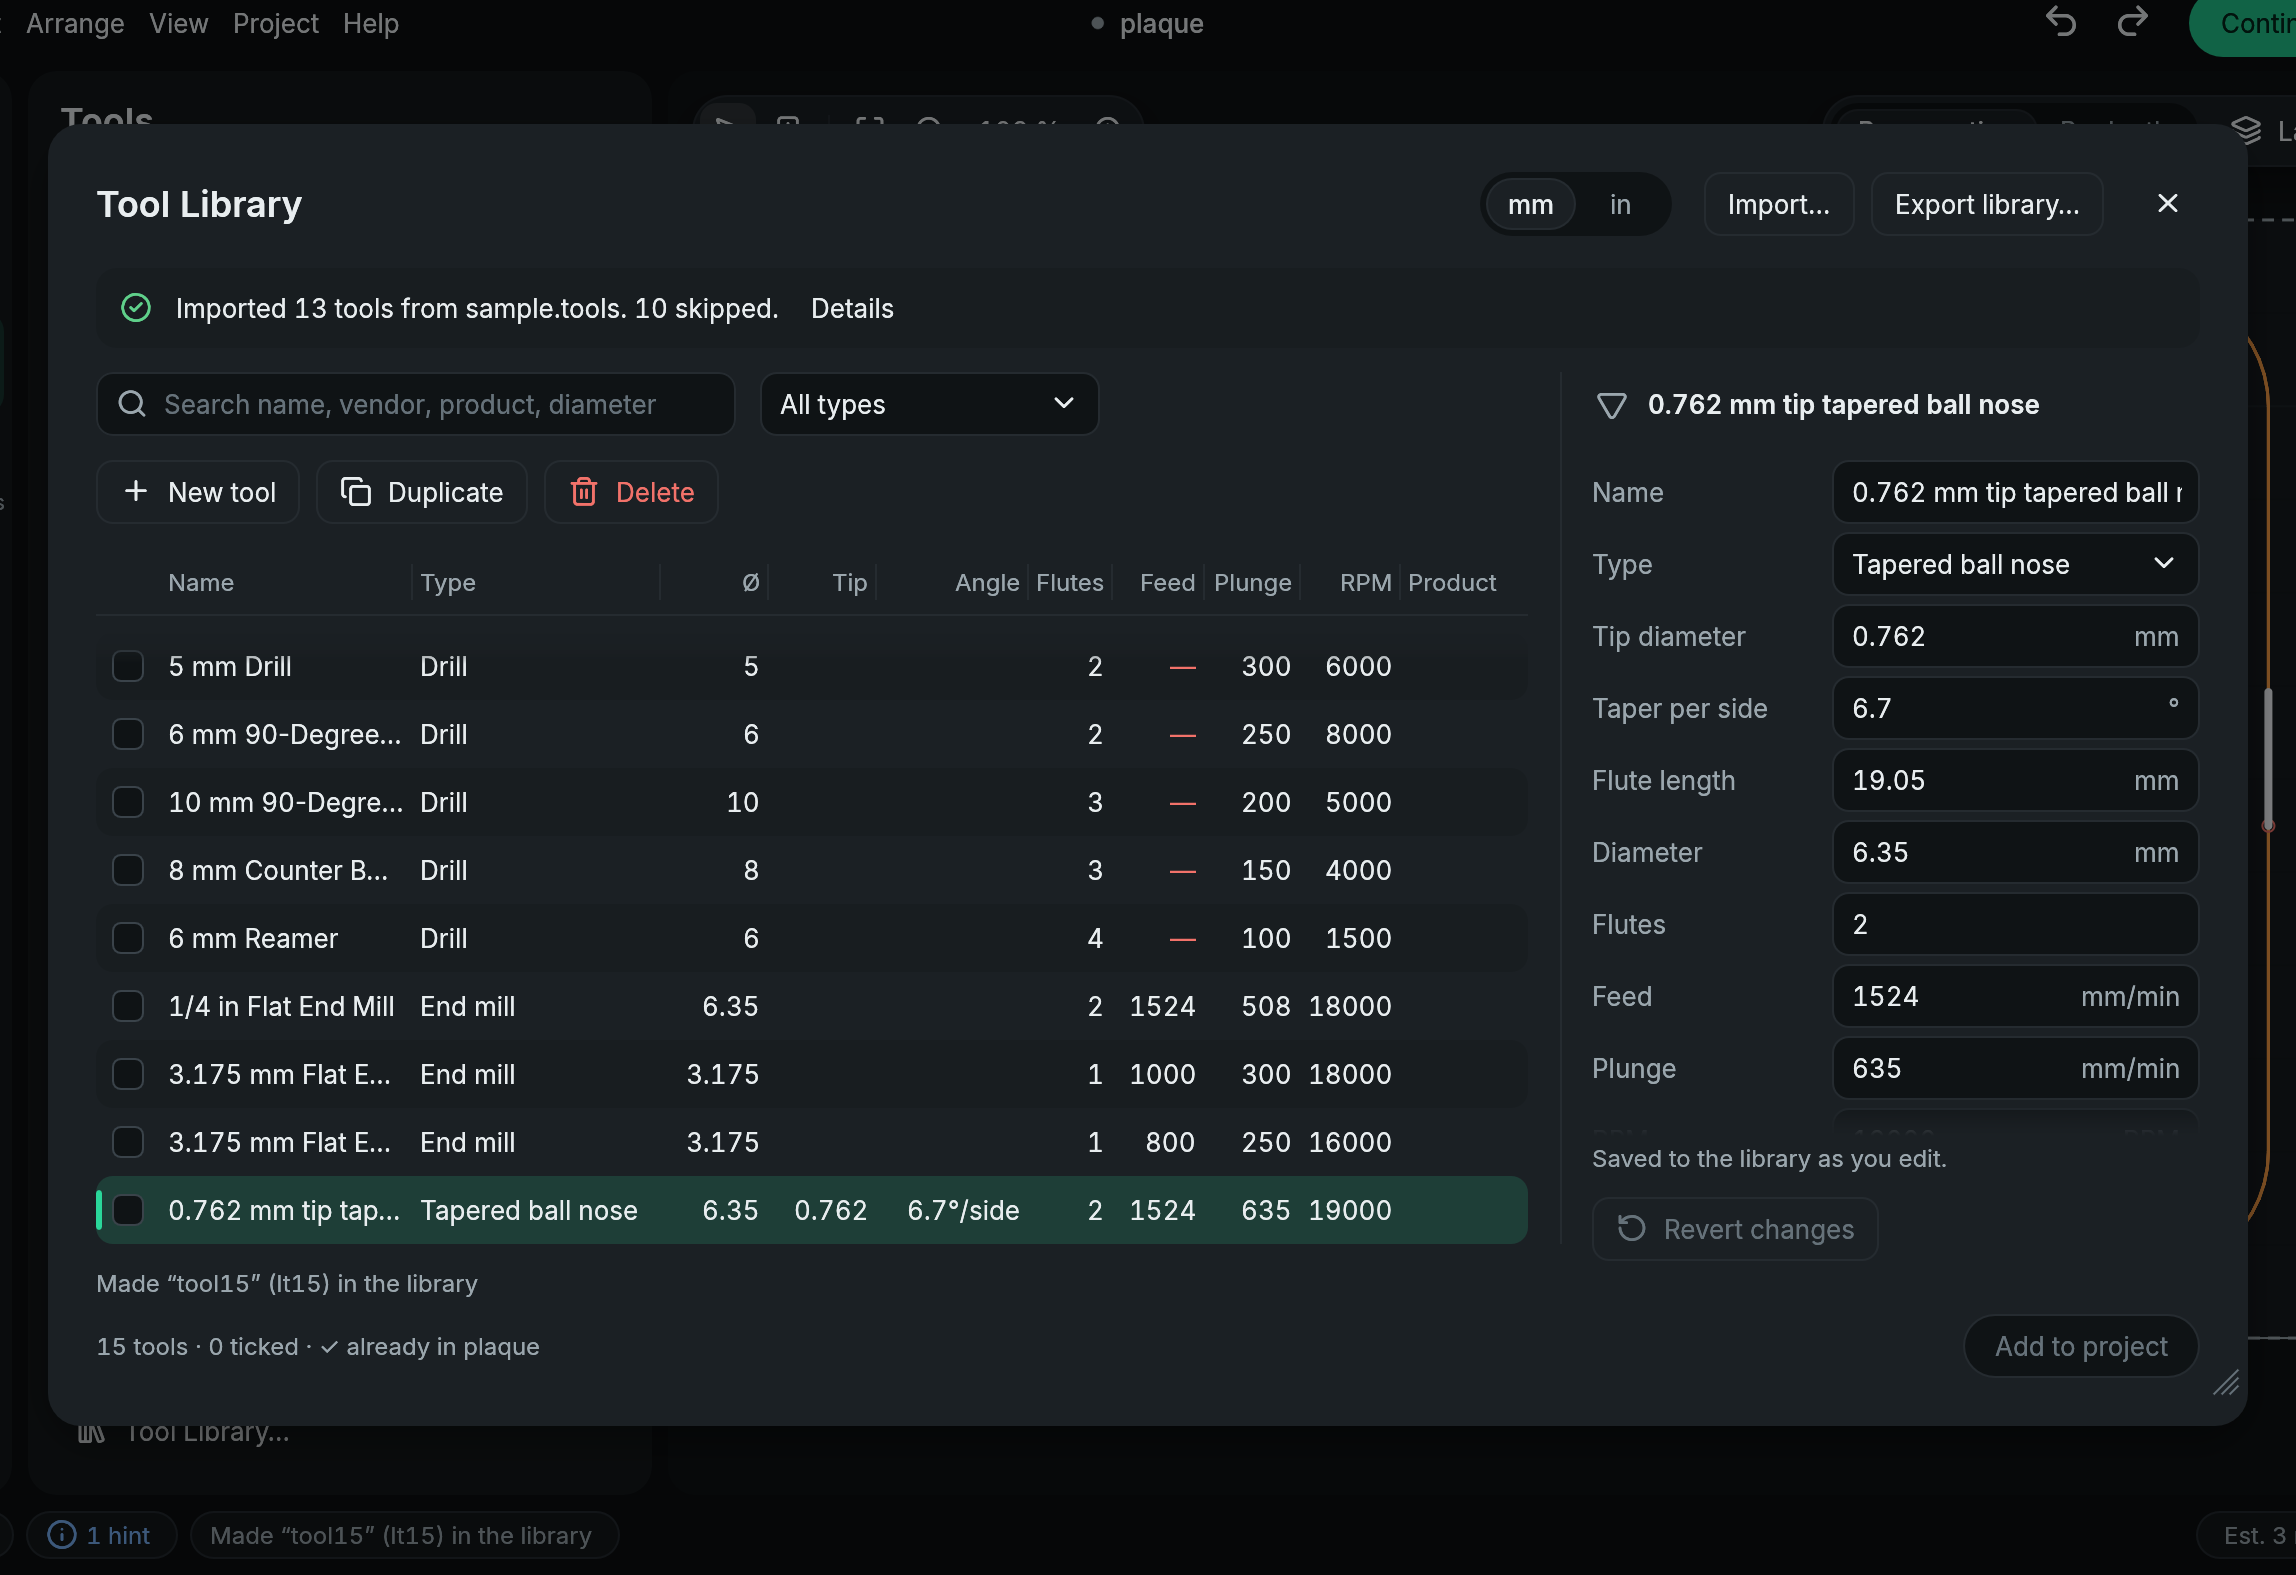
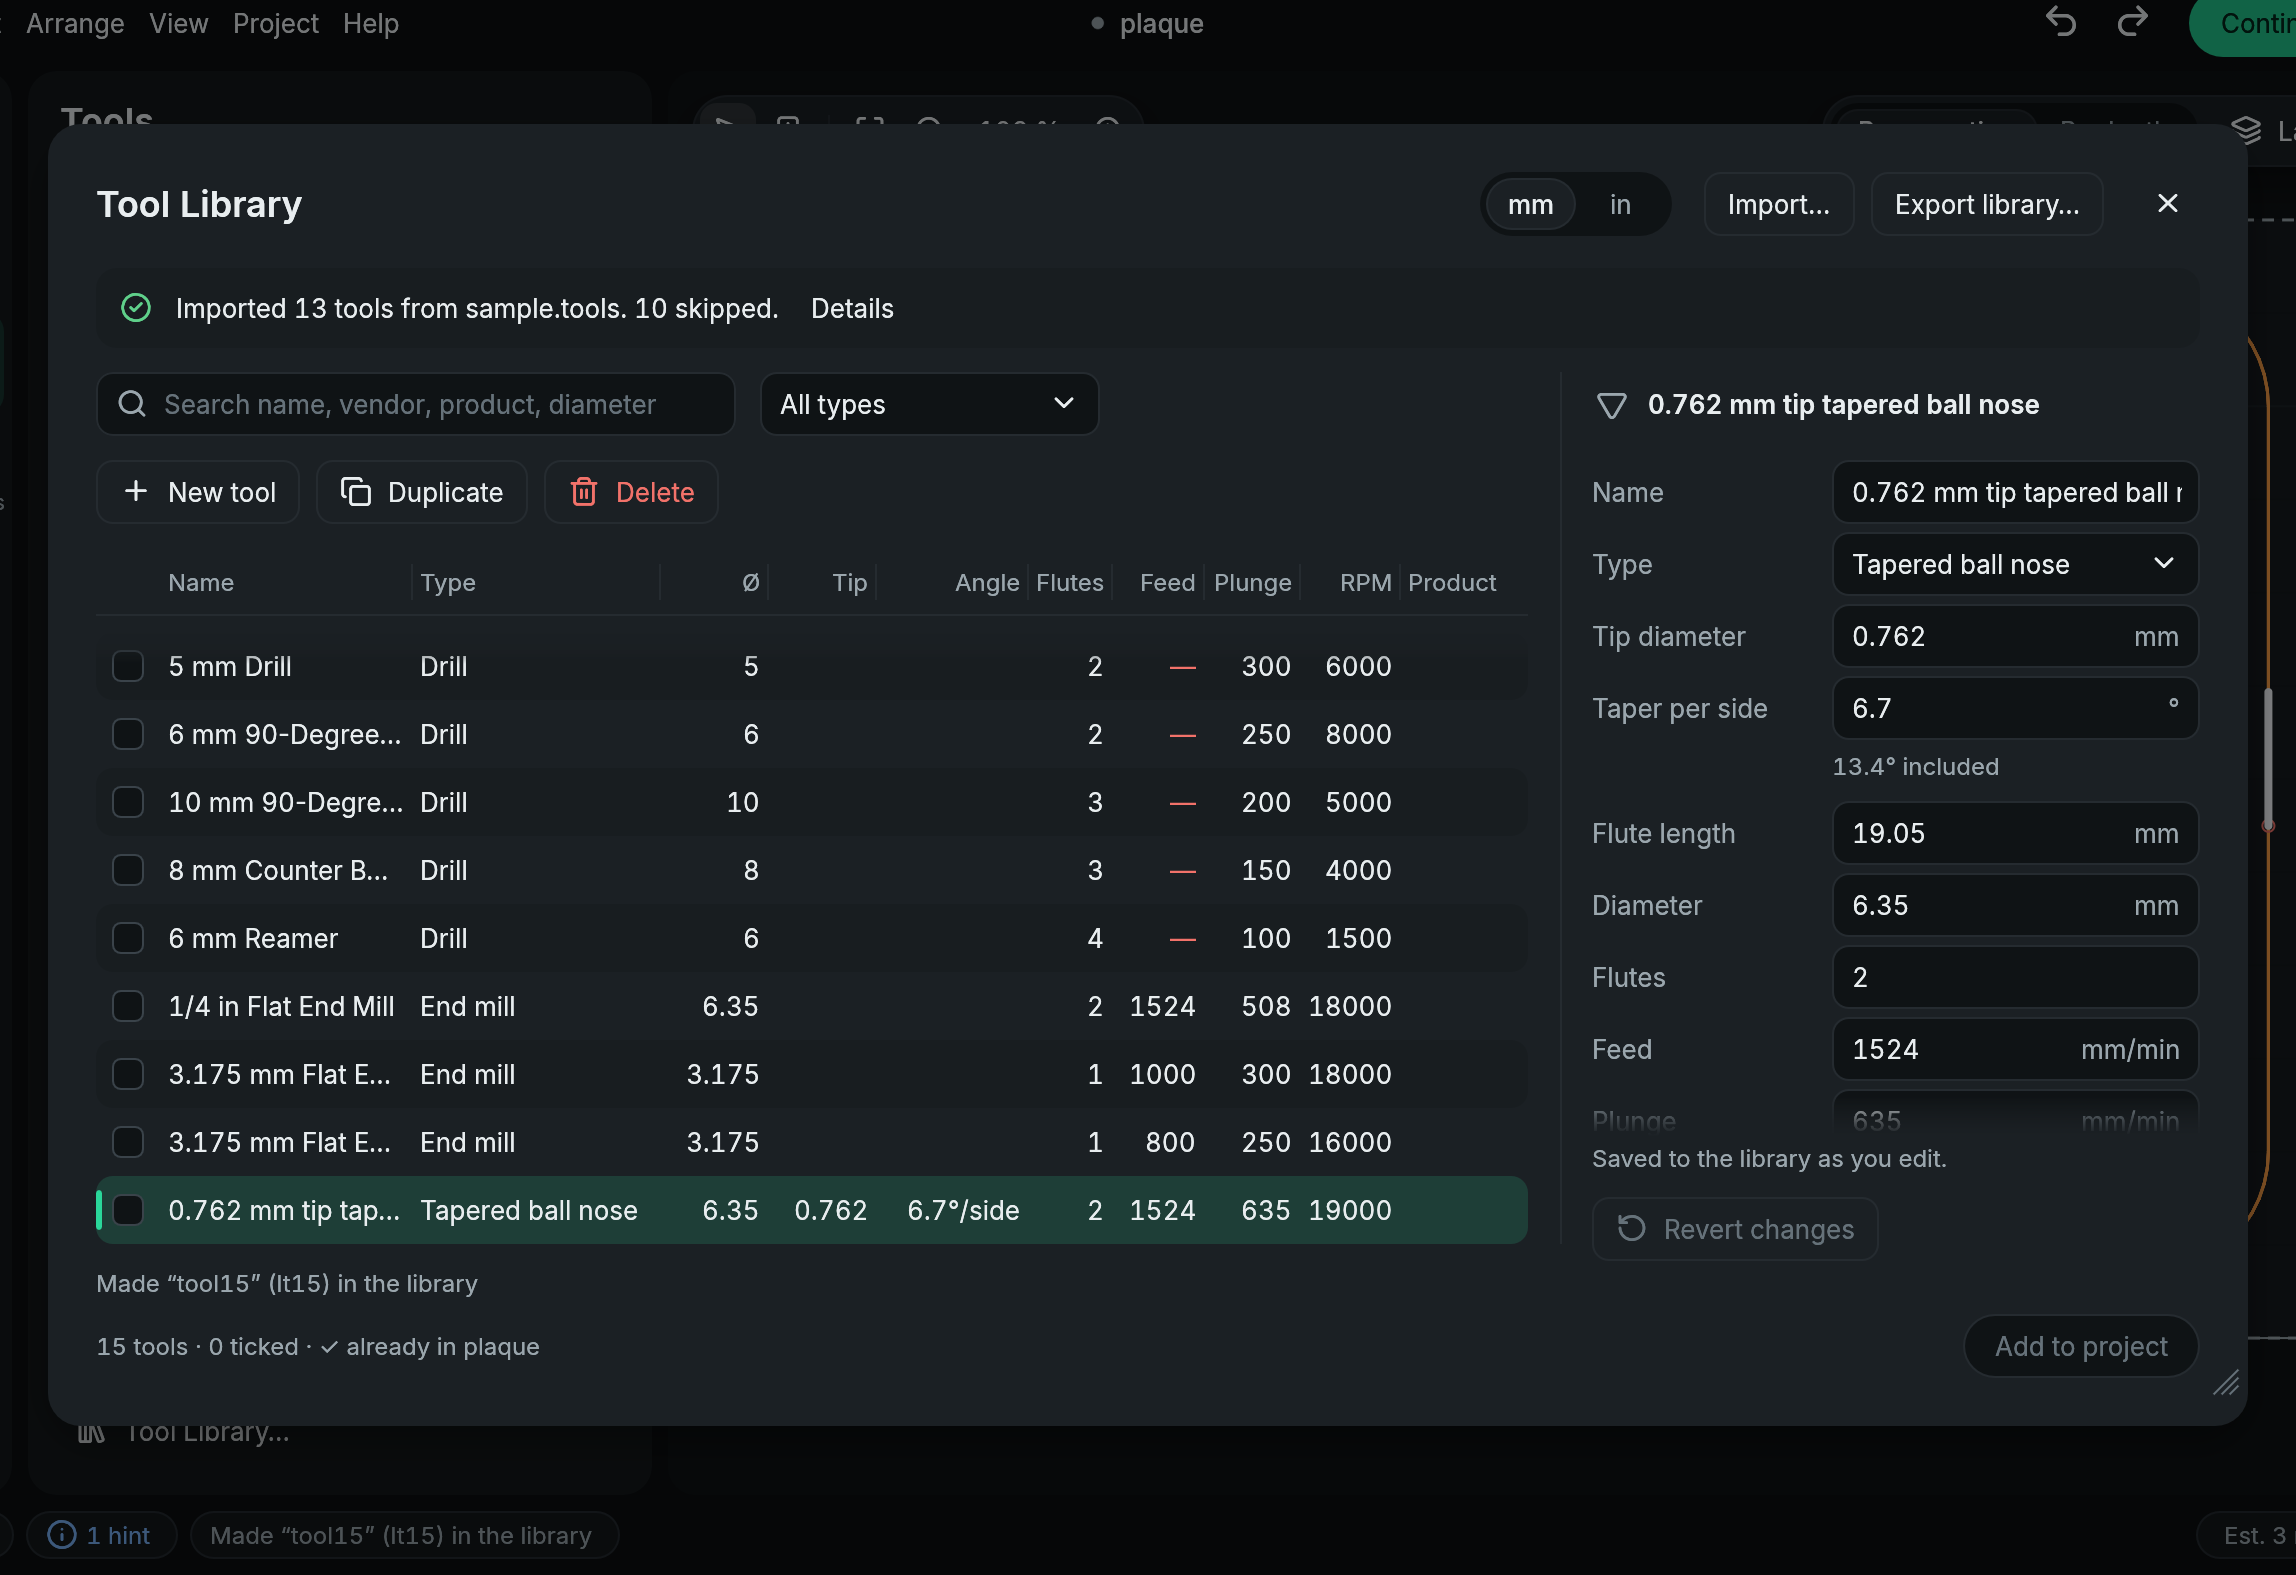
Say an angle both ways under a tool's angle field
A tapered ball nose's Taper per side shows its included angle and a
V-bit's Angle its angle per side, as typed. A bit sold as 6.7 degrees
included and entered as 6.7 per side made a plug that would not enter
its pocket.

Changed region(s): [[0.804, 0.4667, 0.9586, 0.7156], [0.6803, 0.4978, 0.7422, 0.5911], [0.6803, 0.6222, 0.7422, 0.6844]]

diff --git a/crates/dc-app/tests/tools.rs b/crates/dc-app/tests/tools.rs
@@ -1404,3 +1404,50 @@ fn a_finding_at_a_tools_field_is_that_fields_status() {
         "{status:?}"
     );
 }
+
+/// An angle's field says the same angle the other way, as it is typed: a
+/// tapered ball nose's taper is per side and its note gives the included
+/// angle; a V-bit's angle is included and its note gives the angle per
+/// side. A bit sold as "6.7°" entered as 6.7 per side reads
+/// `13.4° included`, which is how the slip shows.
+#[test]
+fn an_angle_field_says_the_angle_the_other_way() {
+    let strings = dc_app::strings::Strings::english();
+    let mut tapered = dc_project::test_support::tool_6_35_upcut();
+    tapered.cutter = dc_project::ToolKind::TaperedBallNose {
+        tip_diameter_mm: Some(2.286),
+        taper_angle_deg: Some(6.7),
+        flute_length_mm: Some(19.05),
+    };
+    let taper = |typed: &str| tools::angle_note(&strings, &tapered, ToolField::Taper, typed);
+    assert_eq!(taper("6.7").as_deref(), Some("13.4° included"));
+    assert_eq!(taper("3.35").as_deref(), Some("6.7° included"));
+    assert_eq!(taper("3.35°").as_deref(), Some("6.7° included"));
+    assert_eq!(taper(""), None, "empty is not set");
+    assert_eq!(taper("steep"), None);
+    assert_eq!(taper("60"), None, "a taper the field refuses has no note");
+
+    let mut v_bit = dc_project::test_support::tool_6_35_upcut();
+    v_bit.cutter = dc_project::ToolKind::VBit {
+        included_angle_deg: 60.0,
+    };
+    let angle = |typed: &str| tools::angle_note(&strings, &v_bit, ToolField::Angle, typed);
+    assert_eq!(angle("60").as_deref(), Some("30° per side"));
+    assert_eq!(angle("90").as_deref(), Some("45° per side"));
+    assert_eq!(angle("13.4").as_deref(), Some("6.7° per side"));
+    assert_eq!(angle(""), None);
+
+    // Only the two angle fields, and only on the cutter that has them.
+    assert_eq!(
+        tools::angle_note(&strings, &tapered, ToolField::Angle, "60"),
+        None
+    );
+    assert_eq!(
+        tools::angle_note(&strings, &v_bit, ToolField::Taper, "6.7"),
+        None
+    );
+    assert_eq!(
+        tools::angle_note(&strings, &v_bit, ToolField::Diameter, "6"),
+        None
+    );
+}

diff --git a/crates/dreamcarve-app/tests/smoke_fixes.rs b/crates/dreamcarve-app/tests/smoke_fixes.rs
@@ -1445,3 +1445,41 @@ fn boards_ticks_and_the_sheets_units_show_their_help() {
     assert!(text.ends_with(help), "{text}");
     std::fs::remove_dir_all(&dir).unwrap();
 }
+
+/// An angle's field says the same angle the other way, as it is typed
+/// (the maintainer's test cuts, 2026-11-21: a bit sold as 6.7° was 6.7°
+/// included, 3.35° per side, and the plug would not enter the pocket). A
+/// tapered ball nose's Taper per side shows its included angle under the
+/// field.
+#[test]
+fn a_taper_field_says_its_included_angle_as_it_is_typed() {
+    let dir = scratch("angle-note");
+    let part = copy_fixture("dc-tbn.dcv", &dir);
+    let dialogs = QueuedDialogs::default();
+    let mut h = harness(
+        options(&dir.join("config"), Some(part), &dialogs),
+        1280.0,
+        800.0,
+    );
+    go_to(&mut h, "Tools");
+    h.get_by_role_and_label(Role::ListItem, "2.286 mm tip tapered ball nose")
+        .click();
+    h.run();
+    let field = h
+        .get_by_role_and_label(Role::TextInput, "Taper per side")
+        .rect();
+    let note = h.get_by_label("13.4° included").rect();
+    assert!(
+        note.top() >= field.bottom() - 1.0 && note.left() >= field.left() - 12.0,
+        "the note is under its field: {note:?}, {field:?}"
+    );
+    let steps = undo_steps(&h);
+    type_into(&mut h, "Taper per side", "3.35");
+    assert!(h.query_by_label("6.7° included").is_some());
+    assert!(h.query_by_label("13.4° included").is_none());
+    assert_eq!(undo_steps(&h), steps, "nothing is written while typing");
+    h.key_press(egui::Key::Escape);
+    h.run();
+    assert!(h.query_by_label("13.4° included").is_some());
+    std::fs::remove_dir_all(&dir).unwrap();
+}

diff --git a/crates/dc-app/src/tools.rs b/crates/dc-app/src/tools.rs
@@ -680,6 +680,31 @@ pub fn step_over_note(strings: &Strings, tool: &Tool, typed: &str, units: Units)
     between_passes(strings, fraction * tool.diameter_mm, units)
 }
 
+/// The note beside `tool`'s Taper or Angle field while it holds `typed`:
+/// the same angle said the other way. A tapered ball nose's taper is per
+/// side, so its note is the included angle (`6.7` reads `13.4° included`);
+/// a V-bit's angle is included, so its note is the angle per side (`60`
+/// reads `30° per side`). Bits are sold by either figure, and one entered
+/// as the other halves or doubles the wall's slope. `None` for any other
+/// field, a cutter without that field, and a field that is empty or holds
+/// an angle it refuses.
+#[must_use]
+pub fn angle_note(strings: &Strings, tool: &Tool, field: ToolField, typed: &str) -> Option<String> {
+    if typed.trim().is_empty() {
+        return None;
+    }
+    let (key, angle_deg) = match (field, &tool.cutter) {
+        (ToolField::Taper, ToolKind::TaperedBallNose { .. }) => {
+            (StrKey::AppToolsTaperNote, taper_angle(typed).ok()? * 2.0)
+        }
+        (ToolField::Angle, ToolKind::VBit { .. }) => {
+            (StrKey::AppToolsAngleNote, included_angle(typed).ok()? / 2.0)
+        }
+        _ => return None,
+    };
+    Some(strings.fmt(key, &[("angle", &trimmed(angle_deg, FIELD_DECIMALS))]))
+}
+
 /// The worst finding located at each of `tool`'s own fields, errors
 /// before warnings before hints, one a field. A value the tool still
 /// needs is left out: its field says *Required* (66b).

diff --git a/crates/dreamcarve-app/src/panels/tools.rs b/crates/dreamcarve-app/src/panels/tools.rs
@@ -705,6 +705,11 @@ pub(crate) fn tool_fields(ui: &mut Ui, spec: &ToolFields<'_>) -> FieldsOutput {
             {
                 quiet_line(ui, &note);
             }
+            // An angle said the other way: a taper's included angle, a
+            // V-bit's angle per side.
+            if let Some(note) = tools::angle_note(strings, tool, field, &output.text) {
+                quiet_line(ui, &note);
+            }
             output
         });
         let response = output.response.labelled_by(label.id);

diff --git a/docs/alpha-worklog.md b/docs/alpha-worklog.md
@@ -140,6 +140,7 @@ Notes from the fixes:
 | G5 | Left by G3, now done: the Import drawing sheet resizes; the Boards ticks and the import sheets' choices have help on the control; Band margin keeps its value across a boundary and comes back with *None* (held in the window, never in the project) | done |
 | G6 | A field's problem takes no room (the maintainer's request): no message line under any field; the field's outline and glyph mark it; a tooltip on the glyph or the field lists its findings; a click on the glyph opens the Warnings drawer at the finding; the focused field's problem shows first in the help line, and in the field's accessible description. Notes that are not problems, and the Export step's list of what blocks export, stay where they are. `redesign.md`'s Field component still says the message goes under the field | done |
 | G7 | A single program lists its tool runs: under the file, "2 tools, 1 tool change", then each tool with what it cuts and its time, in Program Details, the result sheet and the setup sheet. `dc_job::ProgramSummary.runs`; the runs' times add up to the program's. CLI output and G-code unchanged | done |
+| G8 | An angle is said both ways in the tool editor and the library's pane: a tapered ball nose's Taper per side shows its included angle, a V-bit's Angle its angle per side (`dc_app::tools::angle_note`). From the maintainer's test cuts of 2026-11-21: the Fine Detail bit entered as 6.7° per side made a plug that would not enter its pocket; measured pockets matched 3.35° per side to within 0.1 mm, and a coaster cut at 3.35° fitted. The vendor's file gives 10° for the same bit | done |
 | G4 | gSender's *Invalid lines detected* on `M61 Q1`: gSender's own check at file load; grblHAL answers `ok` to the line and the program runs. Documented in the Post-processors chapter. The maintainer decided on 2026-11-20 to leave the program as it is for now: the `M61` line stays, no `T1` word is added (so gSender lists only the second tool), and a single program keeps its first tool in its file name | done |
 
 What the smoke test showed: an Inlay estimated at 1 h 23 min, 60 minutes

diff --git a/docs/specs/phase-4/functional.md b/docs/specs/phase-4/functional.md
@@ -510,7 +510,13 @@ folder are app preferences, kept outside the project.
     a bit's diameter (here, in the library's pane, 64a, and a Pocket's
     own, 68) a quiet line says the distance it comes to in the units
     shown, *0.508 mm between passes*, from what is typed, as
-    it is typed; an empty Pocket stepover says its tool's. A finding
+    it is typed; an empty Pocket stepover says its tool's. An **angle**
+    is said both ways for the same reason (maintainer's test cuts,
+    2026-11-21: a bit sold as 6.7° was 6.7° included, and entered as 6.7°
+    per side its plug would not enter its pocket): under a tapered ball
+    nose's Taper per side a quiet line gives the included angle,
+    *13.4° included*, and under a V-bit's Angle the angle per side,
+    *30° per side*, from what is typed. A finding
     validation locates at one of the tool's fields (a plunge rate above
     the feed, a stepover far too small) marks that field with its tier's
     outline and glyph, as an operation's row is marked (66, "A field's

diff --git a/docs/book/src/user-guide/tool-library.md b/docs/book/src/user-guide/tool-library.md
@@ -67,7 +67,7 @@ diameter and the tool number. A V-bit's row adds its angle, `6.35 mm ·
 | --- | --- | --- |
 | **Name** | What the lists, the operations' **Tool** rows and the program's comments call the tool | `name` |
 | **Type** | End mill, Ball nose, V-bit, Engraver, Drill or Tapered ball nose | `cutter` |
-| **Angle** | A V-bit's **included** angle, as V-bits are sold. Only a V-bit has it | `cutter.v_bit.included_angle_deg` |
+| **Angle** | A V-bit's **included** angle, as V-bits are sold. Only a V-bit has it. Under the field the app says the angle per side that comes to (`60` reads *30° per side*) | `cutter.v_bit.included_angle_deg` |
 | **Tip diameter**, **Taper per side**, **Flute length** | A tapered ball nose's three numbers ([Tapered ball nose](tapered-ball-nose.md#in-the-app)). Only that type has them | `cutter.tapered_ball_nose` |
 | **Diameter** | The cutting diameter, for every type | `diameter_mm` |
 | **Flutes** | The number of cutting edges | `flutes` |

diff --git a/docs/book/src/user-guide/tapered-ball-nose.md b/docs/book/src/user-guide/tapered-ball-nose.md
@@ -146,7 +146,7 @@ under it:
 | Field | What to type | In the file |
 | --- | --- | --- |
 | **Tip diameter** | The ball's diameter: twice the tip radius vendors usually give. 0.762 for an R 0.381 mm tip | `tip_diameter_mm` |
-| **Taper per side** | The taper in degrees **per side**, as tapered bits are sold. Do not double it | `taper_angle_deg` |
+| **Taper per side** | The taper in degrees **per side**: from the bit's axis to one flank. Bits are sold by either figure, so check which one the maker gives: a bit listed as 6.7° may be 6.7° across both sides, which is 3.35° here. Under the field the app says the included angle your number comes to, as you type (`3.35` reads *6.7° included*) | `taper_angle_deg` |
 | **Flute length** | How far up the bit the flutes go | `flute_length_mm` |
 | **Diameter** | The **cutting diameter**, where the taper becomes a cylinder: 6.35 for a 1/4 in bit. Not the tip | `diameter_mm` |
 
